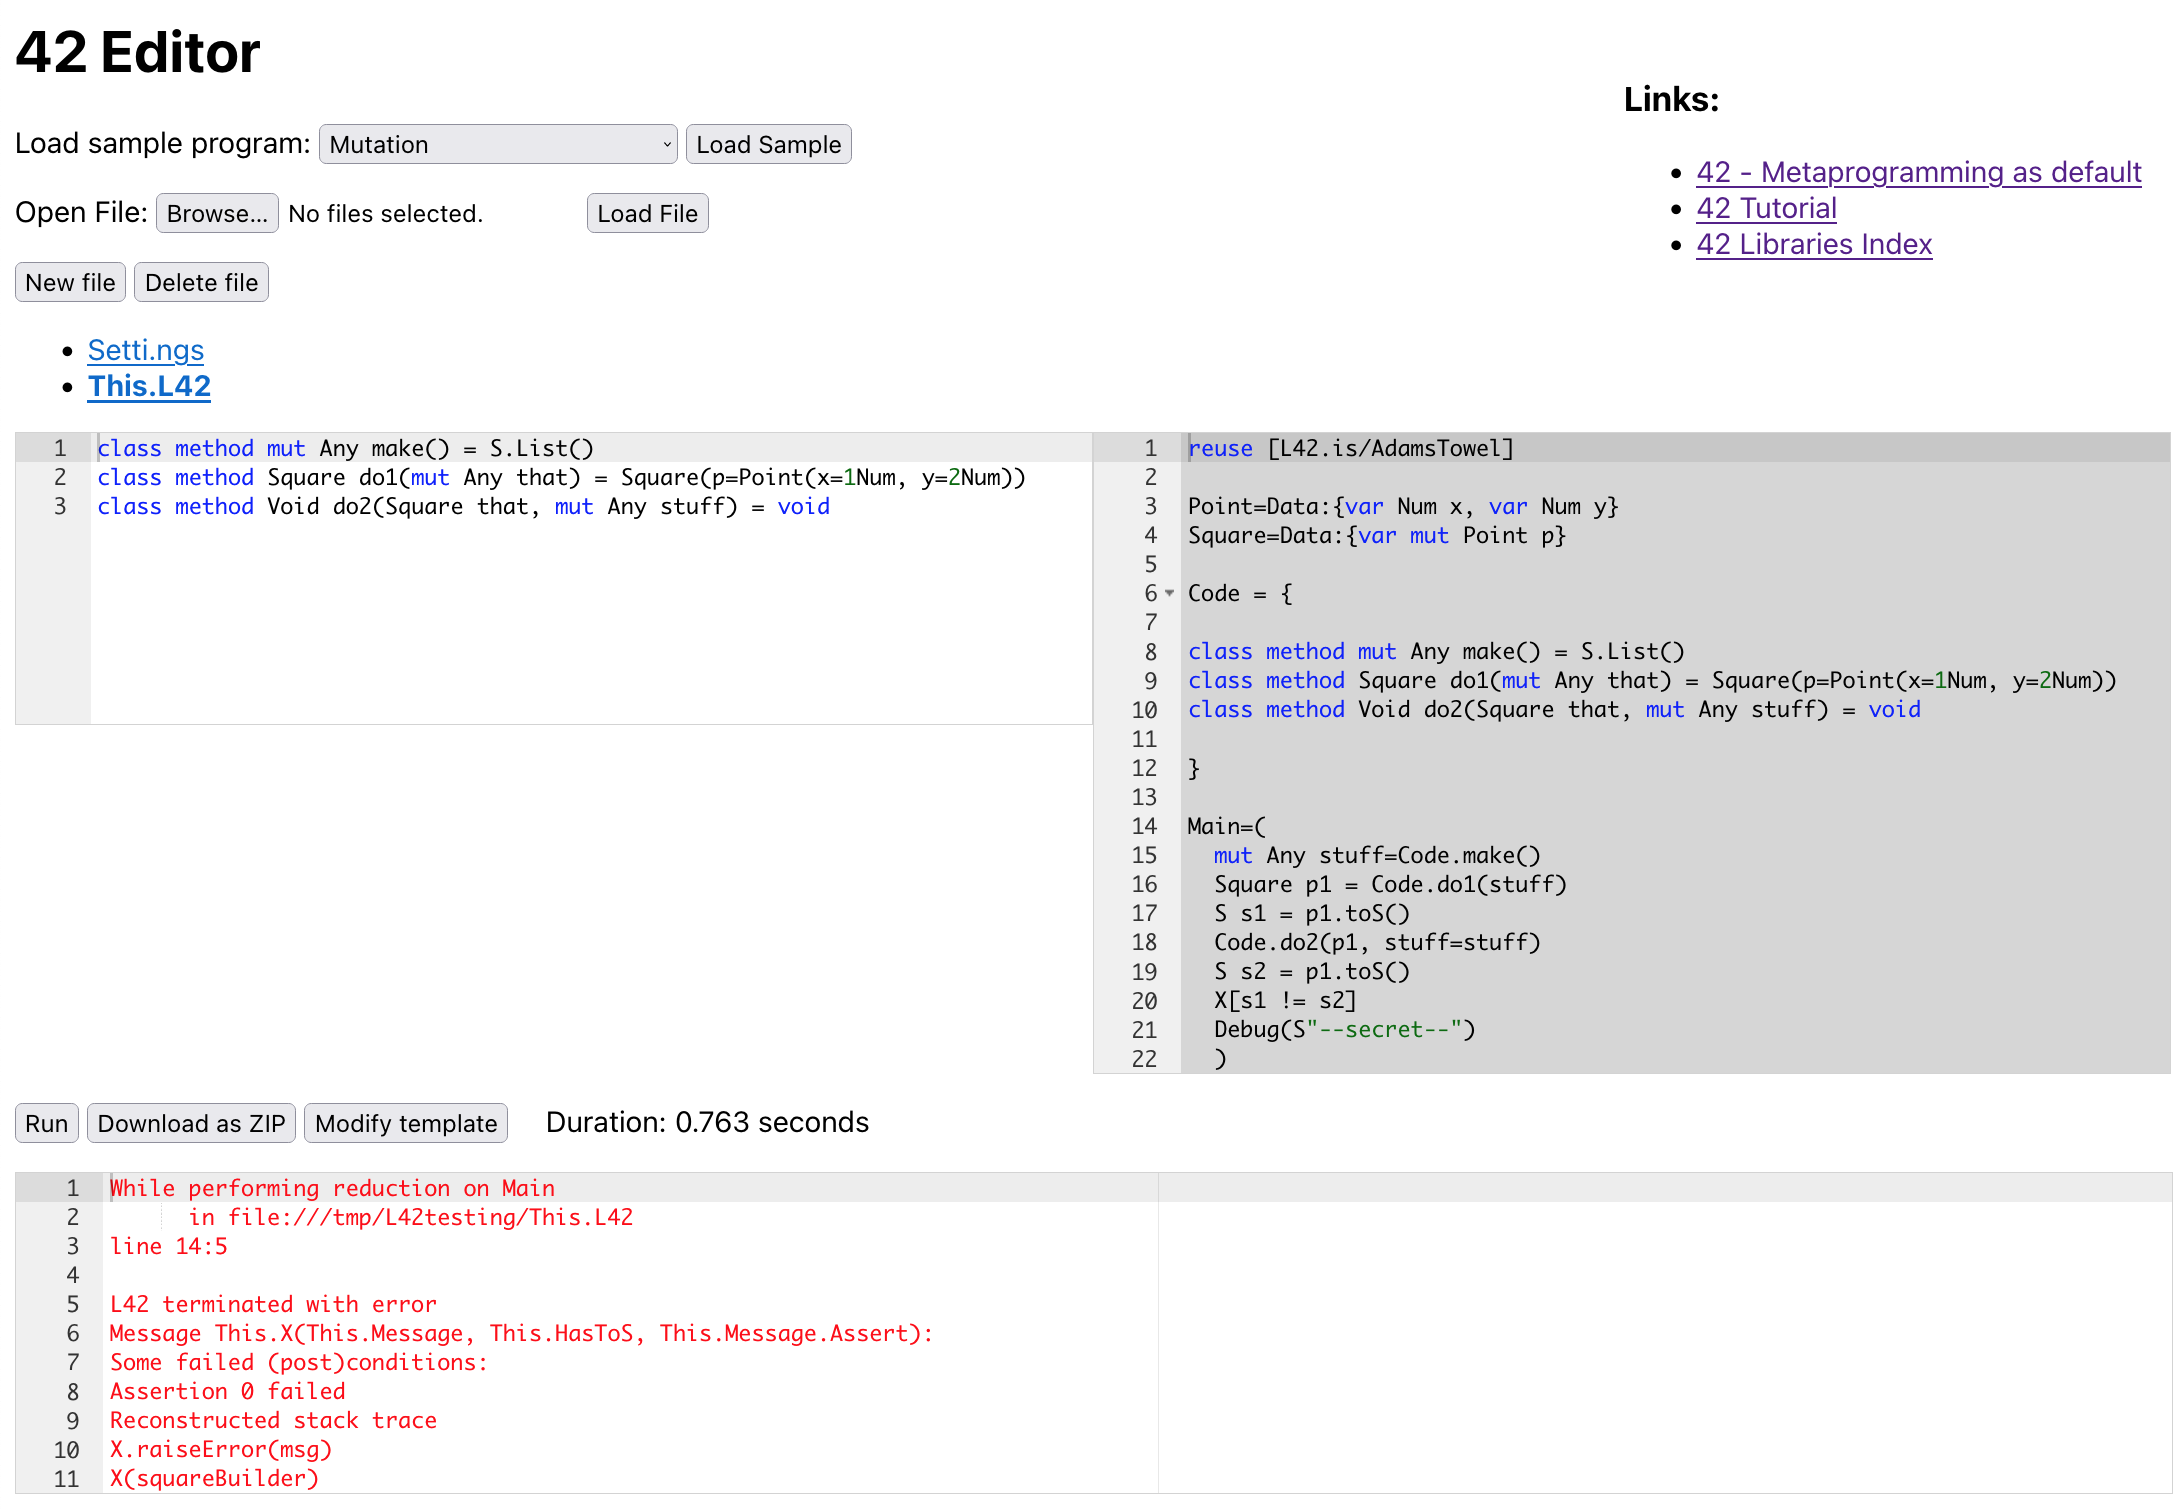
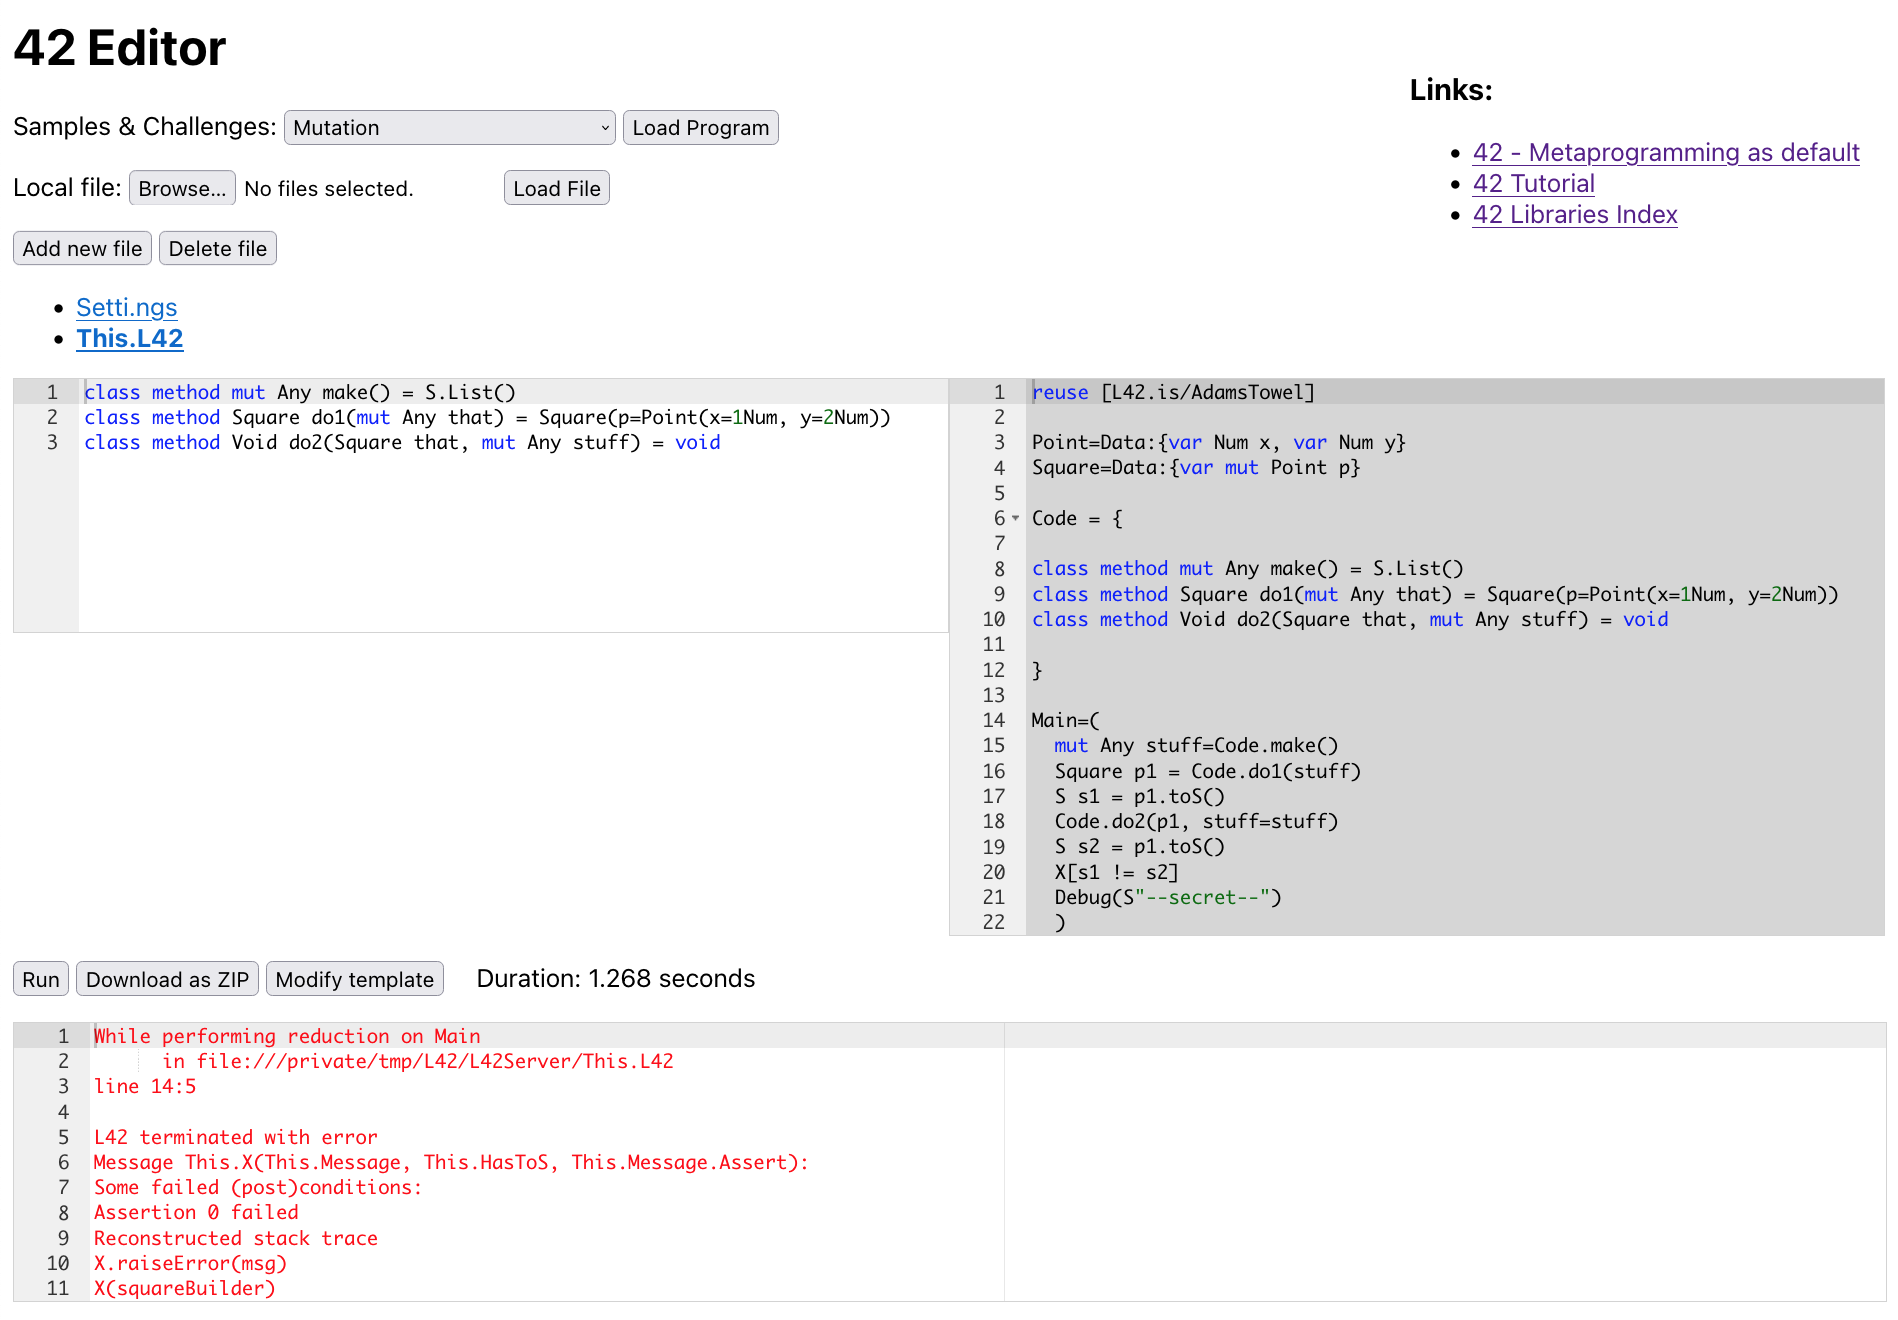
Add explanation text

diff --git a/editor/index.html b/editor/index.html
@@ -69,19 +69,19 @@ body {
 <h1>42 Editor</h1>
 
 <p>
-    <label for="sample-program-select" title="Choose which sample program you would like to run from this list">Load sample program:</label>
+    <label for="sample-program-select" title="Choose which sample program you would like to run from this list">Samples &amp; Challenges:</label>
     <select id="sample-program-select" title="Choose which sample program you would like to run from this list"></select>
-    <input type="button" onclick="loadSampleProgram()" value="Load Sample" title="Load the selected sample program into the editor">
+    <input type="button" onclick="loadSampleProgram()" value="Load Program" title="Load the selected sample program into the editor">
 </p>
 
 <p>
-    <label for="open-file-picker" title="Open .L42 files, or .zip files">Open File:</label>
+    <label for="open-file-picker" title="Open .L42 files, or .zip files">Local file:</label>
     <input type="file" id="open-file-picker" multiple title="Choose one or more files to load into the editor. They can be .L42 files or ZIP files.">
     <input type="button" value="Load File" title="Load the selected file(s) into the editor" onclick="loadFileHandler()">
 </p>
 
 <p>
-    <input type="button" value="New file" onclick="newFileHandler()">
+    <input type="button" value="Add new file" onclick="newFileHandler()">
     <input type="button" value="Delete file" onclick="deleteFileHandler()">
 </p>
 
@@ -104,6 +104,26 @@ body {
 </p>
 
 <div id="output"></div>
+
+<h3>42 Bug Bounty Programme</h3>
+
+<p><a href="https://l42.is">42</a> is a programming language that is designed to be secure, easy to optimise and customisable.</p>
+
+<p>This website provides an easy-to-use editor for 42 code, as well as access to a bug bounty programme. Feel free to write 42 code that gets executed on the server. There are also a number of example programs to try. For more advanced programs, you might want to install 42 locally, which you can get <a href="https://l42.is/download.xhtml">here</a>.</p>
+
+<p>In addition to sample programs, you can also select a "Bug Bounty Challenge". To get started, pick one of the provided challenges from the dropdown list. This will open two editors side-by-side. The left-hand editor shows some starting code that you can modify, while the right-hand panel shows a preview of the overall code that will eventually be executed. In each scenario, the challenge is to get the Main function to fully execute, and reach the final Debug ("print") statement. However, when you run the original program, an exception is thrown. Can you come up with a program that gets to the final line? If you think you have found a solution, please send your code to <a href="mailto:marco.servetto@gmail.com">marco.servetto@gmail.com</a>.</p>
+
+<h4>Bug Bounty Challenge Rules:</h4>
+
+<ul>
+    <li>Only programs marked as "Bug Bounty Challenges" in the dropdown list are eligible</li>
+    <li>The template code must not have been modified (via the "modify template" button or otherwise)</li>
+    <li>Reaching the last line must be reliably reproducable</li>
+    <li>The submitted code must be free from copyright restrictions</li>
+    <li>Modifying the "Setti.ngs" file is permitted</li>
+    <li>Using other 42 libraries, or Java code, is also permitted. Starting other processes on the server and modifying files is permitted.</li>
+    <li>Acceptance is at the sole discretion of Marco Servetto</li>
+</ul>
 
 <script>
 
@@ -234,7 +254,9 @@ const GUI = {
 window.onload = function() {
     let sampleHTML = '';
     for (let example of EXAMPLES) {
-        if (example.default) {
+        if (example.section) {
+            sampleHTML += `<option disabled>${example.section}</option>`;
+        } else if (example.default) {
             sampleHTML += `<option selected>${example.name}</option>`
         } else {
             sampleHTML += `<option>${example.name}</option>`;

diff --git a/editor/examples.js b/editor/examples.js
@@ -257,11 +257,8 @@ Main = (
 }
 
 const EXAMPLES = [
-    {
-      name: "Hello World",
-      default: true,
-      files: { "This.L42": HELLO_WORLD }
-    },
+    { section: "--- Sample Programs ---" },
+    { name: "Hello World", default: true, files: { "This.L42": HELLO_WORLD } },
     { name: "Hello World (template)", files: PRINT_HELLO_WORLD_CHALLENGE },
     { name: "Point", files: POINT },
     { name: "Point Sum Method challenge", files: POINT_SUM_METHOD },
@@ -271,6 +268,7 @@ const EXAMPLES = [
     { name: "Processes", files: PROCESS_EXAMPLE },
     { name: "Time", files: TIME_EXAMPLE },
     { name: "Java", files: JAVA_EXAMPLE },
+    { section: "--- Bug Bounty Challenges ---" },
     { name: "Mutation", files: MUTATION },
     { name: "Invariant", files: INVARIANT },
 ];
